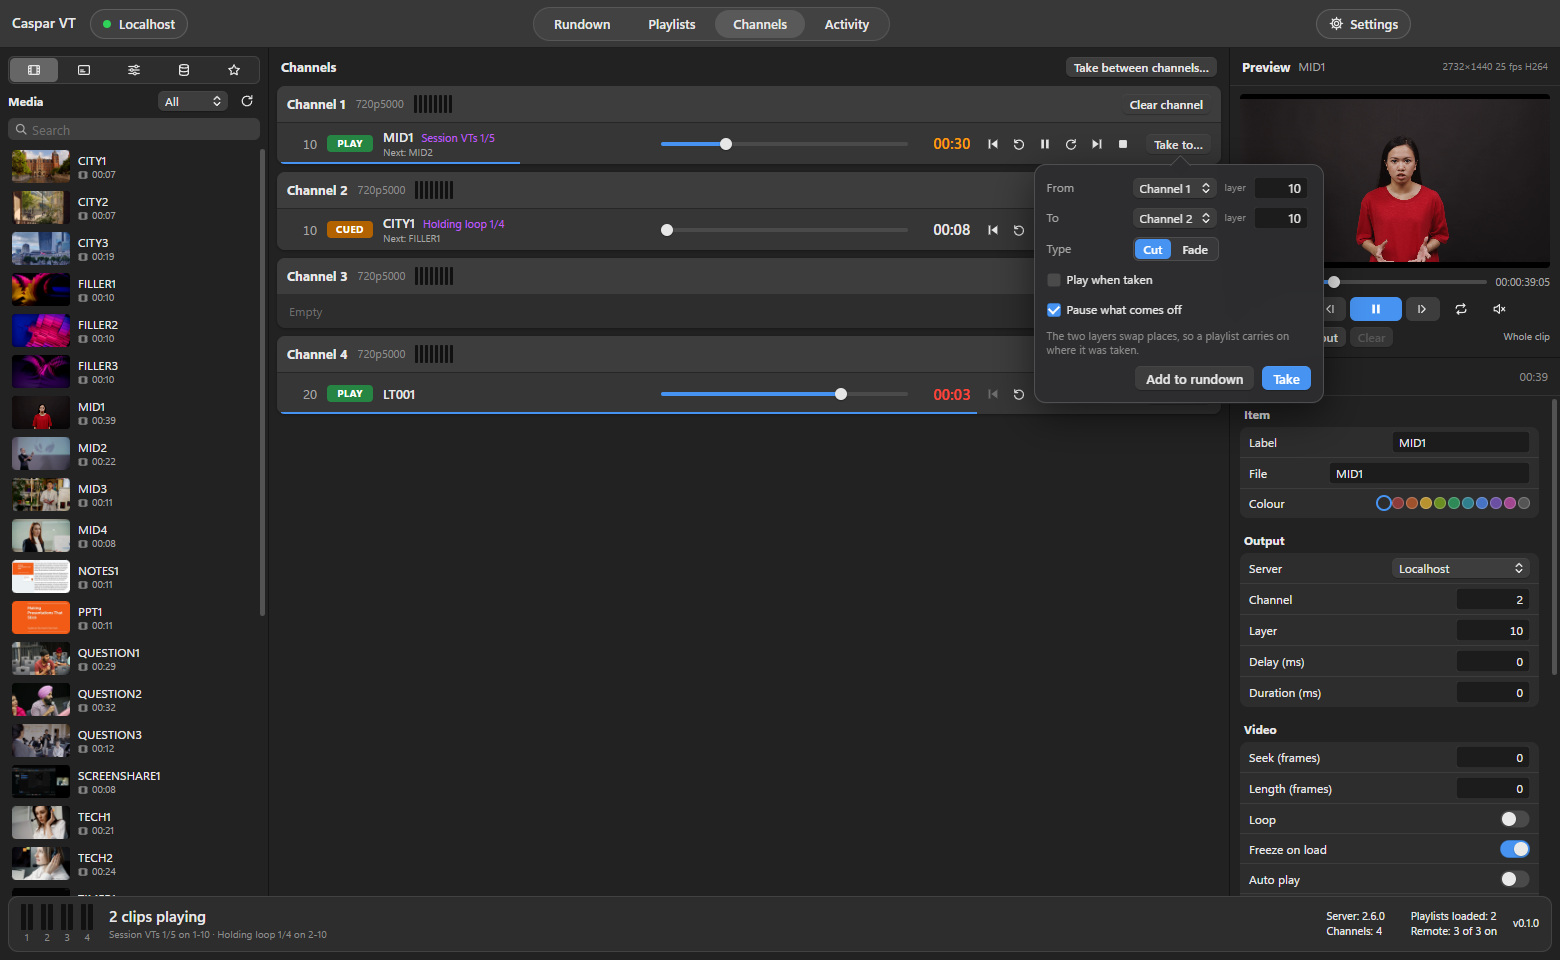
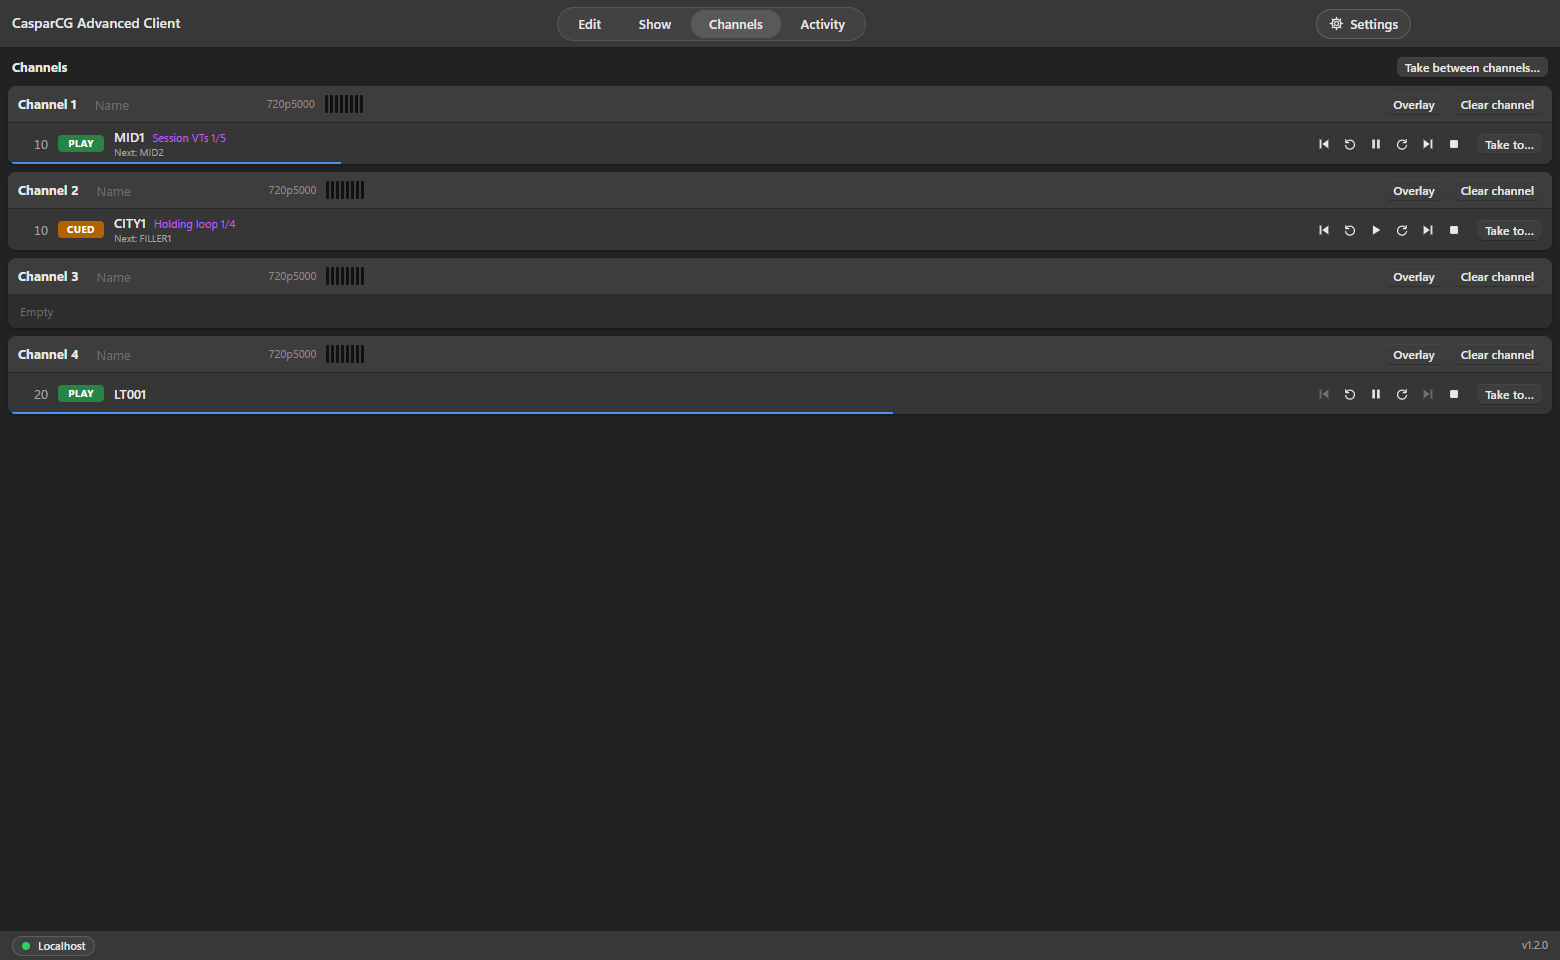
Rename to CasparCG Advanced Client
By nerif-tafu. Settings are copied from the old folder on the first start. New screenshots, as the old ones showed the old name.

diff --git a/src/main/main.ts b/src/main/main.ts
@@ -13,14 +13,20 @@ import { startHttp, startOsc, type ApiHooks } from './api';
 import { q } from './commands';
 import { Device } from './device';
 import { Engine, Refused } from './engine';
+import { carryOver, OLD_FOLDER } from './migrate';
 import { pickMain, startOverlay, type OverlayView } from './overlay';
 import { Preview } from './preview';
 import { Runner } from './runner';
 import { addresses, Web, type Client, type WebHooks } from './web';
 
-if (process.env.CASPARVT_USERDATA) app.setPath('userData', process.env.CASPARVT_USERDATA);
-else app.setPath('userData', path.join(app.getPath('appData'), 'Caspar VT'));
+const ownFolder = process.env.CASPARCG_ADVANCED_USERDATA;
+app.setPath('userData', ownFolder || path.join(app.getPath('appData'), 'CasparCG Advanced Client'));
 if (!app.requestSingleInstanceLock()) app.quit();
+else if (!ownFolder) {
+  const old = path.join(app.getPath('appData'), OLD_FOLDER);
+  const failed = carryOver(old, app.getPath('userData'));
+  if (failed.length) dialog.showErrorBox('CasparCG Advanced Client', `These could not be copied from ${old}: ${failed.join(', ')}`);
+}
 
 const ROOT = path.join(__dirname, '..', '..');
 const ud = (f: string) => path.join(app.getPath('userData'), f);
@@ -529,7 +535,7 @@ function guard(w: BrowserWindow): void {
 function openMain(): void {
   if (win) { win.show(); win.focus(); return; }
   win = new BrowserWindow({
-    width: 1560, height: 960, minWidth: 1180, minHeight: 700, title: 'CasparCG Client', icon: ICON, backgroundColor: '#1e1e1e',
+    width: 1560, height: 960, minWidth: 1180, minHeight: 700, title: 'CasparCG Advanced Client', icon: ICON, backgroundColor: '#1e1e1e',
     titleBarStyle: 'hidden', titleBarOverlay: { color: '#383838', symbolColor: '#e8e8e8', height: 48 }, webPreferences: { ...web(), backgroundThrottling: false },
   });
   win.setMenuBarVisibility(false);
@@ -586,9 +592,9 @@ void app.whenReady().then(() => {
   openMain();
   if (fs.existsSync(ICON)) {
     tray = new Tray(nativeImage.createFromPath(ICON).resize({ width: 16, height: 16 }));
-    tray.setToolTip('CasparCG Client');
+    tray.setToolTip('CasparCG Advanced Client');
     tray.on('click', openMain);
-    tray.setContextMenu(Menu.buildFromTemplate([{ label: 'Show CasparCG Client', click: openMain }, { type: 'separator' }, { label: 'Quit', click: () => { quitting = true; app.quit(); } }]));
+    tray.setContextMenu(Menu.buildFromTemplate([{ label: 'Show CasparCG Advanced Client', click: openMain }, { type: 'separator' }, { label: 'Quit', click: () => { quitting = true; app.quit(); } }]));
   }
   setInterval(() => void watchMedia().catch(() => undefined), 8000);
   setInterval(() => { if (win?.isVisible()) win.webContents.send('state', state()); }, 66);

diff --git a/src/ui/app.ts b/src/ui/app.ts
@@ -47,7 +47,7 @@ function topBar(): HTMLElement {
   nav = segmented([{ value: 'edit', label: 'Edit' }, { value: 'show', label: 'Show' }, { value: 'channels', label: 'Channels' }, { value: 'activity', label: 'Activity' }], tab, (v) => showTab(v as Tab));
   const settings = h('button.btn.pill.settings-btn', icon('gear'), h('span', 'Settings')) as HTMLButtonElement;
   settings.addEventListener('click', openSettings);
-  return h('header.topbar', h('div.left', h('span.app-title', 'CasparCG Client')), h('div.center', nav.el), h('div.right', settings));
+  return h('header.topbar', h('div.left', h('span.app-title', 'CasparCG Advanced Client')), h('div.center', nav.el), h('div.right', settings));
 }
 
 /** In a browser the settings open over the page; in the app they have their own window. */
@@ -245,7 +245,7 @@ async function askQuit(playing: string[]): Promise<void> {
     playing.length ? `${playing.join(', ')} ${playing.length > 1 ? 'are' : 'is'} playing. If you quit, ${playing.length > 1 ? 'each stops' : 'it stops'} after the clip that is already queued.` : '',
     dirty.length ? `${dirty.map((d) => d.name).join(', ')} ${dirty.length > 1 ? 'have' : 'has'} unsaved changes. They are kept and reopen next time.` : '',
   ].filter(Boolean);
-  const layer = h('div.sheet-layer', h('div.sheet.wide', h('h3', playing.length ? 'A playlist is on air' : 'Quit CasparCG Client?'), ...parts.map((p) => h('p', p)),
+  const layer = h('div.sheet-layer', h('div.sheet.wide', h('h3', playing.length ? 'A playlist is on air' : 'Quit CasparCG Advanced Client?'), ...parts.map((p) => h('p', p)),
     h('div.actions', button('Cancel', done), playing.length ? button('Keep running hidden', () => { done(); void call('hide'); }, 'primary') : null, button('Quit', () => { done(); void call('quit'); }, playing.length ? 'danger' : 'primary'))));
   document.body.append(layer);
 }

diff --git a/src/main/migrate.ts b/src/main/migrate.ts
@@ -1,0 +1,29 @@
+// Until 1.2.0 this app was called CasparCG Client and kept its settings in "Caspar VT". Copies them to the new folder.
+import fs from 'node:fs';
+import path from 'node:path';
+
+export const OLD_FOLDER = 'Caspar VT';
+/** settings.json goes last: while it is missing, the copy has not finished. Caches are left to be made again. */
+const FILES = ['presets', 'Local Storage', 'web.key', 'session.json', 'decks.json', 'media.json', 'seen.json', 'settings.json'];
+
+/** Runs until the new folder has settings. The old folder is only read. Returns what could not be copied. */
+export function carryOver(from: string, to: string): string[] {
+  if (fs.existsSync(path.join(to, 'settings.json')) || !fs.existsSync(from)) return [];
+  const failed: string[] = [];
+  fs.mkdirSync(to, { recursive: true });
+  for (const f of FILES) {
+    const src = path.join(from, f);
+    const dst = path.join(to, f);
+    if (!fs.existsSync(src)) continue;
+    try {
+      // LOCK belongs to whichever app has the storage open.
+      if (fs.statSync(src).isDirectory()) fs.cpSync(src, dst, { recursive: true, filter: (p) => path.basename(p) !== 'LOCK' });
+      else { fs.copyFileSync(src, dst + '.tmp'); fs.renameSync(dst + '.tmp', dst); }
+    } catch {
+      // Local Storage only holds the open tab and panel sizes, and half of it is worse than none.
+      if (f === 'Local Storage') fs.rmSync(dst, { recursive: true, force: true });
+      else failed.push(f);
+    }
+  }
+  return failed;
+}

diff --git a/static/css/tokens.css b/static/css/tokens.css
@@ -1,5 +1,5 @@
 /* =====================================================================
-   Caspar VT design system (shared with GMeet ISO) — replicates ZoomISO v3 (macOS dark appearance).
+   CasparCG Advanced Client design system (shared with Google Meet ISO) — replicates ZoomISO v3 (macOS dark appearance).
    Every window/tab builds on these tokens and components. Do not fork
    colours or control styles in tab CSS; extend here if something is missing.
    ===================================================================== */

diff --git a/src/web/web.ts b/src/web/web.ts
@@ -33,7 +33,7 @@ function login(msg = ''): void {
   const b = el('button', 'primary', 'Connect');
   b.addEventListener('click', () => void go());
   const box = el('div', 'login');
-  box.append(el('h1', '', 'CasparCG Client'), el('p', '', 'Enter the access code from Settings, Web Interface'), i, bad, b);
+  box.append(el('h1', '', 'CasparCG Advanced Client'), el('p', '', 'Enter the access code from Settings, Web Interface'), i, bad, b);
   const layer = el('div', 'login-layer');
   layer.append(box);
   document.body.append(layer);

diff --git a/static/index.html b/static/index.html
@@ -3,7 +3,7 @@
 <head>
 <meta charset="utf-8" />
 <meta http-equiv="Content-Security-Policy" content="default-src 'self'; script-src 'self'; style-src 'self' 'unsafe-inline'; img-src 'self' blob: data: vtmedia:; media-src vtmedia:" />
-<title>CasparCG Client</title>
+<title>CasparCG Advanced Client</title>
 <link rel="stylesheet" href="css/tokens.css" />
 <link rel="stylesheet" href="css/shell.css" />
 <link rel="stylesheet" href="css/settings.css" />

diff --git a/src/ui/settings.ts b/src/ui/settings.ts
@@ -1,4 +1,4 @@
-// Settings window (same layout as GMeet ISO's): sidebar plus grouped rows. Every control saves straight away.
+// Settings window (same layout as Google Meet ISO's): sidebar plus grouped rows. Every control saves straight away.
 import type { DeviceState, Settings } from '../shared/types';
 import { h, icon, iconButton, popup, toggle, type Child } from './kit';
 import { toast, vt } from './store';

diff --git a/static/web/index.html b/static/web/index.html
@@ -4,7 +4,7 @@
 <meta charset="utf-8">
 <meta name="viewport" content="width=device-width, initial-scale=1, viewport-fit=cover">
 <meta name="theme-color" content="#383838">
-<title>CasparCG Client</title>
+<title>CasparCG Advanced Client</title>
 <link rel="manifest" href="/manifest.json">
 <link rel="icon" href="/icon.png">
 <link rel="stylesheet" href="/css/tokens.css">

diff --git a/static/css/app.css b/static/css/app.css
@@ -1,4 +1,4 @@
-/* Caspar VT layout. Colours, controls and cards come from tokens.css (shared with GMeet ISO). */
+/* CasparCG Advanced Client layout. Colours, controls and cards come from tokens.css (shared with Google Meet ISO). */
 .spacer { flex: 1; }
 .kbtn { display: inline-flex; align-items: center; gap: 6px; }
 .kbtn .ico { width: 13px; height: 13px; }

diff --git a/README.md b/README.md
@@ -1,6 +1,8 @@
-# CasparCG Client
+# CasparCG Advanced Client
 
 A CasparCG client with playlists, takes between any two channels, and local clip preview. Works with an unmodified CasparCG Server.
+
+Up to 1.2.0 it was called CasparCG Client. Settings are copied from the old folder (`%APPDATA%\Caspar VT`) the first time it starts. It installs next to the old version, so quit and uninstall that one.
 
 - Same tools, keys and rundown files (.xml) as the original CasparCG Client. A playlist is saved as an auto play group and a Channel Take as a custom command, so the original client can still open the file.
 - **Playlists** loop or stop on the last clip, play the next clip by themselves or wait for Next, step forwards and back, can be edited while they play, carry on through a take, and are picked up again after a restart.
@@ -43,6 +45,7 @@ The exes are not code-signed, so Windows SmartScreen warns the first time.
 
     node test/unit.mjs                       # rundown files and every tool's commands
     python test/hidden.py 300 node test/e2e.mjs <work dir> <media dir> <log>   # the real app on an isolated server
+    python test/hidden.py 120 node test/renamed.mjs <log>                      # settings from before the app was renamed
     python test/hidden.py 300 node test/web.mjs <work dir> <chrome.exe> <rundown.xml>      # the client in browsers next to the app
 
 ## Layout
@@ -54,11 +57,12 @@ The exes are not code-signed, so Windows SmartScreen warns the first time.
     src/main/commands.ts  the AMCP each tool sends
     src/main/api.ts       HTTP and OSC control
     src/main/overlay.ts   the playback overlay; static/overlay.html is its page
+    src/main/migrate.ts   settings from before the app was renamed
     src/main/web.ts       web interface server; src/web/ runs the client in a browser
     src/shared/merge.ts   two screens editing one rundown
     src/shared/relink.ts  missing clips and finding their new names
     src/shared/tools.ts   every tool and its properties (the inspector is built from this)
-    src/ui/               interface, built from GMeet ISO's kit and tokens
+    src/ui/               interface, built from Google Meet ISO's kit and tokens
 
 Takes deliberately avoid BEGIN/COMMIT: the server runs batches on a queue shared by all clients, so another client
 loading thumbnails can hold them up for seconds.
